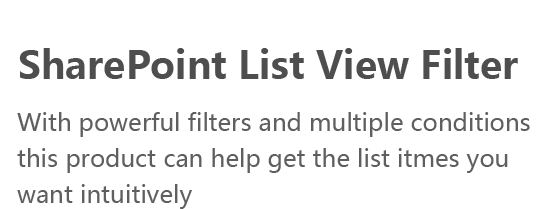
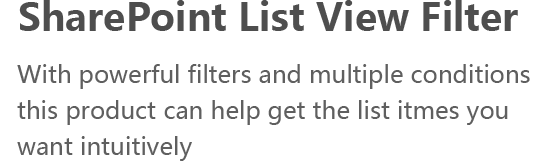
keep working on integration

Changed region(s): [[0.0297, 0.0, 1.0, 0.8385], [0.0297, 0.8385, 0.3569, 0.9938], [0.3271, 0.0, 0.3569, 0.0311]]

diff --git a/sharepoint-list-view-filter.html b/sharepoint-list-view-filter.html
@@ -17,35 +17,56 @@ pageType: details_page
           <!-- Wrapper for slides -->
           <div class="carousel-inner" role="listbox">
               <div class="item active">
-                  <img src="assets/images/banner01.jpg" />
-                  <div class="carousel-caption">
+                <!-- <img src="assets/images/listfilter/bannerbackground.png" />
+                <div class="carousel-caption">
 
-                      <div class="row">
-                          <div class="col-lg-6 col-md-6 col-xs-12 col-sm-12">
-                              <div class="banner01_left">
-                                  <div class="img_tips">
-                                    <!--   <img src="assets/images/banner_tips.png" class="img-responsive" /> -->
-                                    <p>
-                                            <h1 style="color:black; font-weight:bold;">SharePoint List View Filter</h1>
-                                            <h4 style="color:black; font-weight:bold;">With powerful filters and multiple conditions, this product can help get the list itmes you want intuitively </h4>
-                                    </p>
-                                  </div>
-                                  <p>
-                                      <button class="btn btn_free ">
-                                          <img src="assets/images/icon_b01.png" />Free Trial</button>
-                                      <button class="btn btn_buy ">
-                                          <img src="assets/images/icon_b02.png" />Buy Now</button>
-                                  </p>
-                              </div>
-                          </div>
-                          <div class="col-lg-4 col-md-4  xs_none">
-                              <div class="banner01_right">
-                                  <img src="assets/images/banner_01pic02.png" class="img-responsive" />
-                              </div>
-                          </div>
-                      </div>
+                    <div class="row">
+                        <div class="col-lg-6 col-md-6 col-xs-12 col-sm-12">
+                            <div class="banner01_left">
+                                <div class="img_tips">
+                                    <img src="assets/images/listfilter/text.png" class="img-responsive" />
 
-                  </div>
+                                </div>
+                                <p>
+                                    <button class="btn btn_free ">
+                                        <img src="assets/images/icon_b01.png" />Free Trial</button>
+                                    <button class="btn btn_buy ">
+                                        <img src="assets/images/icon_b02.png" />Buy Now</button>
+                                </p>
+                            </div>
+                        </div>
+                        <div class="col-lg-4 col-md-4  xs_none">
+                            <div class="banner01_right">
+                                <img src="assets/images/listfilter/logo.png" class="img-responsive" />
+                            </div>
+                        </div>
+                    </div>
+                </div> -->
+                <img src="assets/images/listfilter/bannerbackground.png" />
+                <div class="carousel-caption">
+
+                    <div class="row">
+                        <div class="col-lg-6 col-md-6 col-xs-12 col-sm-12">
+                            <div class="banner01_left">
+                                <div class="img_tips">
+                                  <img src="assets/images/listfilter/text.png" class="img-responsive" />
+                                </div>
+                                <p>
+                                    <button class="btn btn_free ">
+                                        <img src="assets/images/icon_b01.png" />Free Trial</button>
+                                    <button class="btn btn_buy ">
+                                        <img src="assets/images/icon_b02.png" />Buy Now</button>
+                                </p>
+                            </div>
+                        </div>
+                        <div class="col-lg-4 col-md-4  xs_none">
+                            <div class="banner01_right" style="top: -40px;position:relative">
+                                <img src="assets/images/listfilter/logo.png" style="width:557px;height:267px;max-width: inherit;" class="img-responsive" />
+                            </div>
+                        </div>
+                    </div>
+
+                </div>
               </div>
           </div>
       </div>

diff --git a/index.html b/index.html
@@ -44,7 +44,7 @@ pageType: index_page
                 </div>
             </div>
             <div class="item">
-                <img src="assets/images/lsitfilter/bannerbackground.jpg" />
+                <img src="assets/images/listfilter/bannerbackground.png" />
                 <div class="carousel-caption">
 
                     <div class="row">
